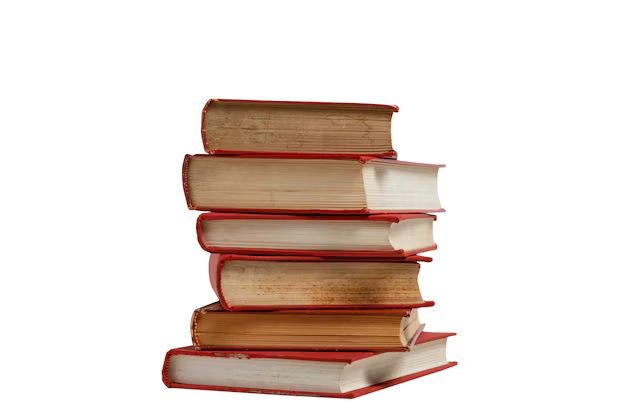
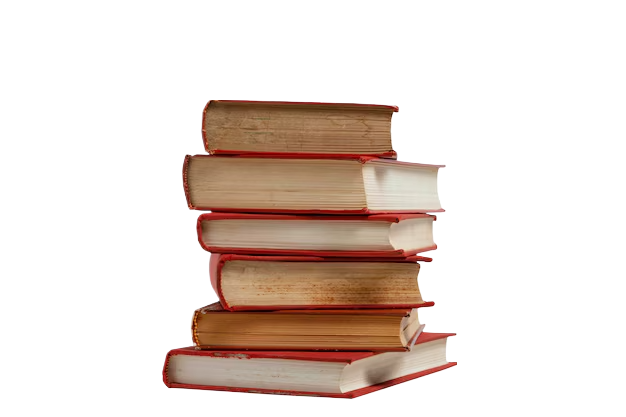
make the application support dark/light system

diff --git a/lib/ui/details/book_details.dart b/lib/ui/details/book_details.dart
@@ -25,6 +25,7 @@ class _BookDetails extends ConsumerState<BookDetails> {
   Widget build(BuildContext context) {
     final favoriteUseCase = ref.watch(favoritesUseCaseProvider);
     var isFavorite = favoriteUseCase.isFavorite(widget.book.title ?? "");
+    var currentMode = MediaQuery.platformBrightnessOf(context);
     return Scaffold(
       appBar: AppBar(
         backgroundColor: AppColors.chestnutRoseApprox,
@@ -56,13 +57,15 @@ class _BookDetails extends ConsumerState<BookDetails> {
         ],
       ),
 
-      backgroundColor: Colors.white,
+      backgroundColor: currentMode == Brightness.light
+          ? Colors.white
+          : Colors.black,
       body: SingleChildScrollView(
         child: Column(
           crossAxisAlignment: CrossAxisAlignment.start,
           children: [
             Padding(
-              padding: const EdgeInsets.all(8.0),
+              padding: const EdgeInsets.all(Dimens.padding8),
               child: Center(
                 child: Image.network(
                   widget.book.cover ?? "",
@@ -98,7 +101,9 @@ class _BookDetails extends ConsumerState<BookDetails> {
               child: Text(
                 widget.book.title ?? "",
                 style: AppThemes.semiBold18.copyWith(
-                  color: AppColors.sharkApprox,
+                  color: currentMode == Brightness.light
+                      ? AppColors.sharkApprox
+                      : Colors.white,
                 ),
                 textAlign: TextAlign.center,
               ),
@@ -122,17 +127,22 @@ class _BookDetails extends ConsumerState<BookDetails> {
               ),
             ),
             Padding(
-              padding: const EdgeInsets.only(left: 8.0, right: 8.0),
+              padding: const EdgeInsets.only(
+                left: Dimens.padding8,
+                right: Dimens.padding8,
+              ),
               child: Text(
                 Strings.overview,
                 style: AppThemes.semiBold18.copyWith(
-                  color: AppColors.sharkApprox,
+                  color: currentMode == Brightness.light
+                      ? AppColors.sharkApprox
+                      : Colors.white,
                 ),
                 textAlign: TextAlign.start,
               ),
             ),
             Padding(
-              padding: const EdgeInsets.all(8.0),
+              padding: const EdgeInsets.all(Dimens.padding8),
               child: Text(
                 widget.book.description ?? "",
                 style: AppThemes.regular14.copyWith(

diff --git a/lib/ui/home/home_screen.dart b/lib/ui/home/home_screen.dart
@@ -1,9 +1,11 @@
+import 'package:book_store_app/core/strings/strings.dart';
 import 'package:book_store_app/core/themes/colors.dart';
 import 'package:book_store_app/providers/view_models_providers.dart';
 import 'package:book_store_app/ui/details/book_details.dart';
 import 'package:flutter/material.dart';
 import 'package:flutter_riverpod/flutter_riverpod.dart';
 
+import '../../core/themes/theme.dart';
 import '../../data/model/book.dart';
 import '../favorites/favorites_screen.dart';
 import 'book_item.dart';
@@ -14,10 +16,10 @@ class HomeScreen extends ConsumerWidget {
   @override
   Widget build(BuildContext context, WidgetRef ref) {
     final homeStatus = ref.watch(homeViewModelProvider);
-
+    var currentMode = MediaQuery.platformBrightnessOf(context);
     return Scaffold(
       appBar: AppBar(
-        title: Text("Book Store"),
+        title: Text(Strings.appBarTitle),
         backgroundColor: AppColors.chestnutRoseApprox,
         foregroundColor: Colors.white,
         actions: [
@@ -32,7 +34,9 @@ class HomeScreen extends ConsumerWidget {
           ),
         ],
       ),
-      backgroundColor: Colors.white,
+      backgroundColor: currentMode == Brightness.light
+          ? Colors.white
+          : Colors.black,
       body: homeStatus.when(
         data: (books) {
           if (books.data != null) {
@@ -54,7 +58,16 @@ class HomeScreen extends ConsumerWidget {
             );
           }
         },
-        error: (err, stack) => Center(child: Text("$err")),
+        error: (err, stack) => Center(
+          child: Text(
+            "$err",
+            style: AppThemes.semiBold18.copyWith(
+              color: currentMode == Brightness.light
+                  ? AppColors.sharkApprox
+                  : Colors.white,
+            ),
+          ),
+        ),
         loading: () => const Center(
           child: CircularProgressIndicator(color: AppColors.chestnutRoseApprox),
         ),

diff --git a/lib/ui/favorites/favorites_screen.dart b/lib/ui/favorites/favorites_screen.dart
@@ -1,10 +1,10 @@
-import 'package:book_store_app/providers/use_cases_providers.dart';
 import 'package:book_store_app/providers/view_models_providers.dart';
 import 'package:flutter/material.dart';
 import 'package:flutter_riverpod/flutter_riverpod.dart';
 
 import '../../core/strings/strings.dart';
 import '../../core/themes/colors.dart';
+import '../../core/themes/theme.dart';
 import '../../data/model/book.dart';
 import '../details/book_details.dart';
 import '../home/book_item.dart';
@@ -15,6 +15,7 @@ class FavoritesScreen extends ConsumerWidget {
   @override
   Widget build(BuildContext context, WidgetRef ref) {
     final favoriteList = ref.watch(favoritesViewModelProvide);
+    var currentMode = MediaQuery.platformBrightnessOf(context);
     var books = favoriteList.value;
     var content = (books!.isNotEmpty)
         ? ListView.builder(
@@ -33,7 +34,16 @@ class FavoritesScreen extends ConsumerWidget {
               );
             },
           )
-        : Center(child: Text(Strings.noFavorites));
+        : Center(
+            child: Text(
+              Strings.noFavorites,
+              style: AppThemes.semiBold18.copyWith(
+                color: currentMode == Brightness.light
+                    ? AppColors.sharkApprox
+                    : Colors.white,
+              ),
+            ),
+          );
 
     return Scaffold(
       appBar: AppBar(
@@ -41,7 +51,9 @@ class FavoritesScreen extends ConsumerWidget {
         backgroundColor: AppColors.chestnutRoseApprox,
         foregroundColor: Colors.white,
       ),
-      backgroundColor: Colors.white,
+      backgroundColor: currentMode == Brightness.light
+          ? Colors.white
+          : Colors.black,
       body: content,
     );
   }

diff --git a/lib/ui/auth/auth_screen.dart b/lib/ui/auth/auth_screen.dart
@@ -1,6 +1,6 @@
-import 'package:book_store_app/providers/view_models_providers.dart';
 import 'package:book_store_app/core/themes/colors.dart';
 import 'package:book_store_app/core/themes/dimens.dart';
+import 'package:book_store_app/providers/view_models_providers.dart';
 import 'package:flutter/material.dart';
 import 'package:flutter_riverpod/flutter_riverpod.dart';
 
@@ -50,9 +50,11 @@ class _AuthScreenState extends ConsumerState<AuthScreen> {
   @override
   Widget build(BuildContext context) {
     final authState = ref.watch(authViewModelProvider);
-
+    var currentMode = MediaQuery.platformBrightnessOf(context);
     return Scaffold(
-      backgroundColor: Colors.white,
+      backgroundColor: currentMode == Brightness.light
+          ? Colors.white
+          : Colors.black,
       body: Center(
         child: SingleChildScrollView(
           child: Column(
@@ -60,7 +62,9 @@ class _AuthScreenState extends ConsumerState<AuthScreen> {
               Image.asset('assets/images/stack_books.png'),
               Card(
                 margin: const EdgeInsets.all(Dimens.padding20),
-                color: AppColors.bizarreApprox,
+                color: currentMode == Brightness.light
+                    ? AppColors.bizarreApprox
+                    : Colors.black,
                 child: Form(
                   key: _formKey,
                   child: Column(

diff --git a/lib/core/themes/theme.dart b/lib/core/themes/theme.dart
@@ -1,3 +1,4 @@
+import 'package:book_store_app/core/themes/colors.dart';
 import 'package:flutter/material.dart';
 import 'package:google_fonts/google_fonts.dart';
 
@@ -22,5 +23,33 @@ abstract final class AppThemes {
   );
   static final medium16 = GoogleFonts.poppins(
     textStyle: const TextStyle(fontWeight: FontWeight.w500, fontSize: 16),
+  );
+  static final lightTheme = ThemeData(
+    brightness: Brightness.light,
+    // scaffoldBackgroundColor: Colors.white,
+    // primaryColor: AppColors.chestnutRoseApprox,
+    //
+    // appBarTheme: const AppBarTheme(
+    //   backgroundColor: AppColors.chestnutRoseApprox,
+    //   foregroundColor: Colors.white,
+    // ),
+    // colorScheme: const ColorScheme.light(
+    //   primary: AppColors.chestnutRoseApprox,
+    //   secondary: AppColors.kabulApprox,
+    // ),
+  );
+
+  static final darkTheme = ThemeData(
+    brightness: Brightness.dark,
+    // scaffoldBackgroundColor: AppColors.sharkApprox,
+    // primaryColor: AppColors.chestnutRoseApprox,
+    // appBarTheme: const AppBarTheme(
+    //   backgroundColor: AppColors.sharkApprox,
+    //   foregroundColor: Colors.white,
+    // ),
+    // colorScheme: const ColorScheme.dark(
+    //   primary: AppColors.chestnutRoseApprox,
+    //   secondary: AppColors.silverChaliceApprox,
+    // ),
   );
 }

diff --git a/lib/main.dart b/lib/main.dart
@@ -10,13 +10,24 @@ import 'package:flutter/material.dart';
 import 'package:flutter_riverpod/flutter_riverpod.dart';
 import 'package:hive_flutter/hive_flutter.dart';
 
+import 'core/themes/theme.dart';
+
 void main() async {
   WidgetsFlutterBinding.ensureInitialized();
   await Firebase.initializeApp(options: DefaultFirebaseOptions.currentPlatform);
   await Hive.initFlutter();
   Hive.registerAdapter(BookAdapter());
   await Hive.openBox<Book>(Utils.bookStoreHiveBox);
-  runApp(ProviderScope(child: MaterialApp(home: AuthGate())));
+  runApp(
+    ProviderScope(
+      child: MaterialApp(
+        theme: AppThemes.lightTheme,
+        darkTheme: AppThemes.darkTheme,
+        themeMode: ThemeMode.system,
+        home: AuthGate(),
+      ),
+    ),
+  );
 }
 
 class AuthGate extends ConsumerWidget {
